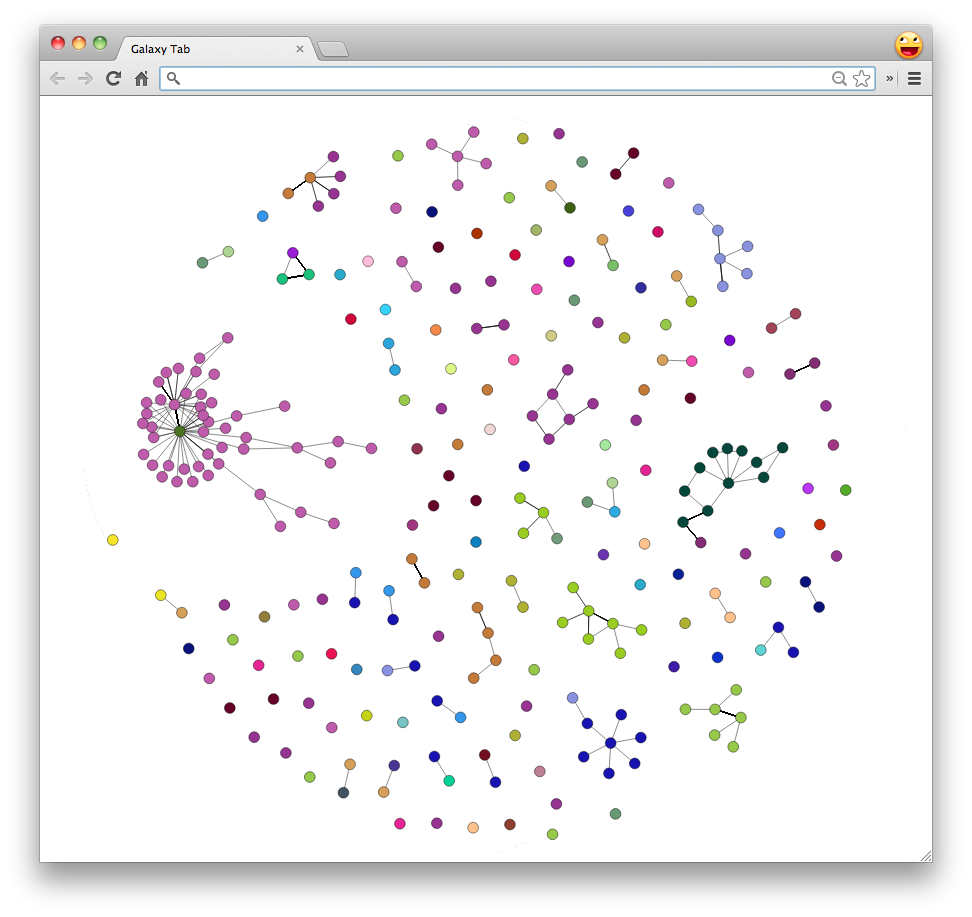
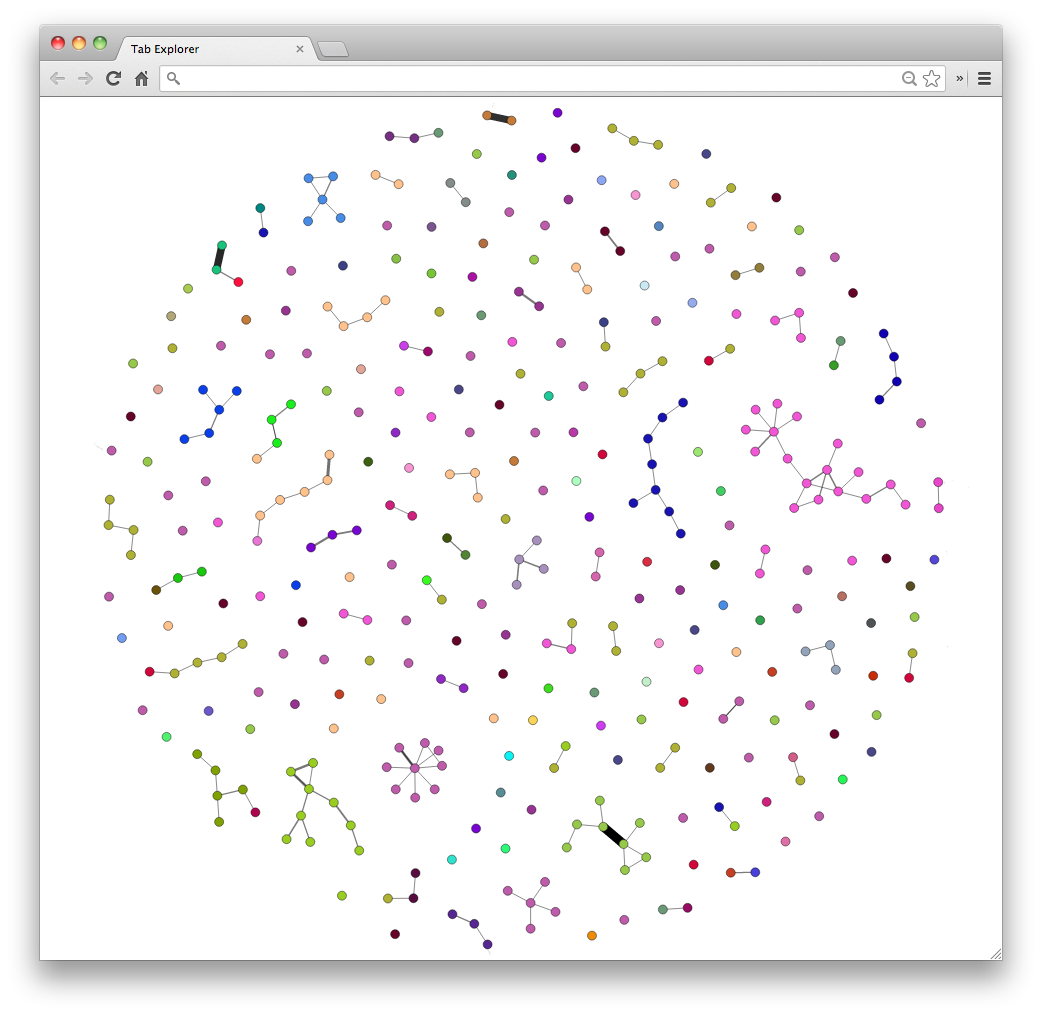
Small tweak to node distances, and new screenshot showing new link styling.

diff --git a/js/historygraph.js b/js/historygraph.js
@@ -6,8 +6,8 @@ var all_visits = {};
 var history_items = {};
 
 var conf = {
-  charge: -80,
-  distance: 30,
+  charge: -70,
+  distance: 25,
   linkMinDarkness: 0.5
 };
 
